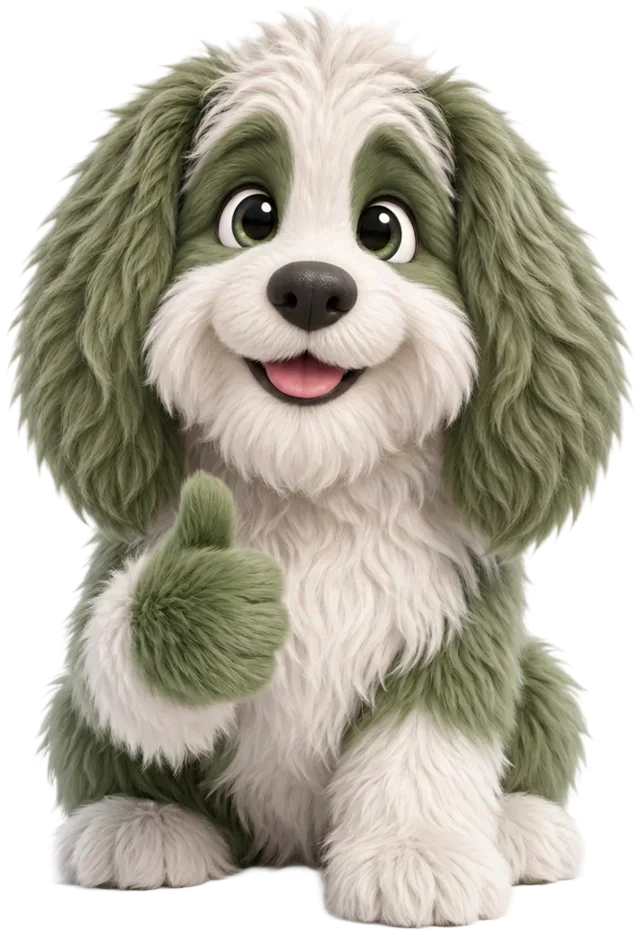
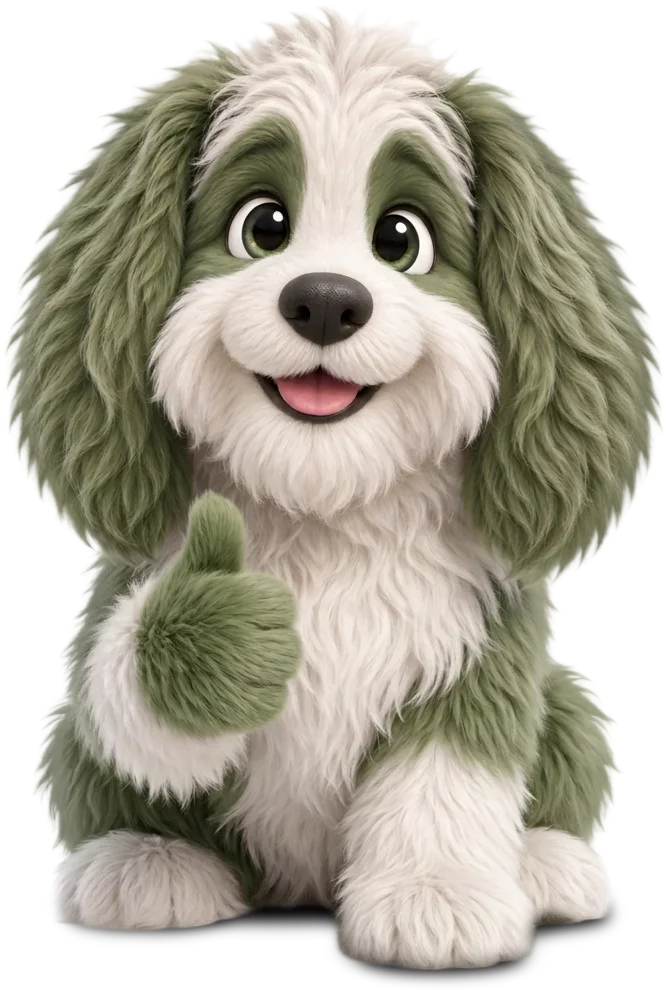
Лендінг: нова версія песика «клас» з тінню, більша

diff --git a/index.html b/index.html
@@ -22,7 +22,7 @@
 <meta property="og:locale" content="uk_UA">
 <link rel="icon" href="/assets/favicon.png">
 <link rel="preload" href="/assets/fonts/Mulish_700Bold.ttf" as="font" type="font/ttf" crossorigin>
-<link rel="stylesheet" href="/assets/landing.css?v=849f6e81">
+<link rel="stylesheet" href="/assets/landing.css?v=9a8fae4e">
 <script>document.documentElement.classList.add('js');try{var th=localStorage.getItem('theme');if(th)document.documentElement.dataset.theme=th}catch(e){}</script>
 <script src="https://cdnjs.cloudflare.com/ajax/libs/gsap/3.12.5/gsap.min.js" defer></script>
 <script src="https://cdnjs.cloudflare.com/ajax/libs/gsap/3.12.5/ScrollTrigger.min.js" defer></script>
@@ -114,7 +114,7 @@
 <footer class="foot"><div class="foot-card">
   <div class="foot-cta">
     <div class="foot-text reveal"><h2>Додайте першого улюбленця</h2><p>Завантажте Chepeti, це займе менше хвилини. Реєстрація не потрібна.</p><div class="cta-row"><a class="btn btn-primary" href="https://play.google.com/store/apps/details?id=com.chepeti.app" rel="noopener"><img class="mono" src="https://cdn.simpleicons.org/googleplay/ffffff" alt="" width="20" height="20">Google Play</a><span class="btn btn-soon" aria-disabled="true"><img src="https://cdn.simpleicons.org/apple/8F8579" alt="" width="20" height="20">App Store <small>скоро</small></span></div></div>
-    <img class="foot-dog" src="/assets/dog/thumbs-up.webp" alt="" width="640" height="935" loading="lazy">
+    <img class="foot-dog" src="/assets/dog/thumbs-up.webp" alt="" width="668" height="990" loading="lazy">
   </div>
   <div class="foot-links">
     <a href="/privacy.html">Конфіденційність</a><a href="/terms.html">Умови використання</a><a href="/delete-account.html">Видалення акаунта</a>

diff --git a/en/index.html b/en/index.html
@@ -22,7 +22,7 @@
 <meta property="og:locale" content="en_US">
 <link rel="icon" href="/assets/favicon.png">
 <link rel="preload" href="/assets/fonts/Mulish_700Bold.ttf" as="font" type="font/ttf" crossorigin>
-<link rel="stylesheet" href="/assets/landing.css?v=849f6e81">
+<link rel="stylesheet" href="/assets/landing.css?v=9a8fae4e">
 <script>document.documentElement.classList.add('js');try{var th=localStorage.getItem('theme');if(th)document.documentElement.dataset.theme=th}catch(e){}</script>
 <script src="https://cdnjs.cloudflare.com/ajax/libs/gsap/3.12.5/gsap.min.js" defer></script>
 <script src="https://cdnjs.cloudflare.com/ajax/libs/gsap/3.12.5/ScrollTrigger.min.js" defer></script>
@@ -114,7 +114,7 @@
 <footer class="foot"><div class="foot-card">
   <div class="foot-cta">
     <div class="foot-text reveal"><h2>Add your first pet</h2><p>Get Chepeti, it takes less than a minute. No sign-up needed.</p><div class="cta-row"><a class="btn btn-primary" href="https://play.google.com/store/apps/details?id=com.chepeti.app" rel="noopener"><img class="mono" src="https://cdn.simpleicons.org/googleplay/ffffff" alt="" width="20" height="20">Google Play</a><span class="btn btn-soon" aria-disabled="true"><img src="https://cdn.simpleicons.org/apple/8F8579" alt="" width="20" height="20">App Store <small>soon</small></span></div></div>
-    <img class="foot-dog" src="/assets/dog/thumbs-up.webp" alt="" width="640" height="935" loading="lazy">
+    <img class="foot-dog" src="/assets/dog/thumbs-up.webp" alt="" width="668" height="990" loading="lazy">
   </div>
   <div class="foot-links">
     <a href="/en/privacy.html">Privacy</a><a href="/en/terms.html">Terms of Use</a><a href="/en/delete-account.html">Delete account</a>

diff --git a/assets/landing.css b/assets/landing.css
@@ -512,3 +512,6 @@ footer .copy { margin-left: auto; }
   .foot { padding-top: 40px; }
   .foot-dog { margin-top: 0; margin-bottom: 16px; }
 }
+/* Песик «клас» більший (власник 14.11): нова версія з тінню */
+.foot-dog { width: clamp(260px, 30vw, 380px); margin-top: calc(-1 * clamp(110px, 11vw, 160px)); }
+@media (max-width: 860px) { .foot-dog { width: min(64vw, 260px); margin-top: 0; } }

diff --git a/tools/build_landing.py b/tools/build_landing.py
@@ -384,7 +384,7 @@ def page(t: dict) -> str:
 <footer class="foot"><div class="foot-card">
   <div class="foot-cta">
     <div class="foot-text reveal"><h2>{t['final_h2']}</h2><p>{t['final_p']}</p><div class="cta-row">{btn_play}{btn_soon}</div></div>
-    <img class="foot-dog" src="{a}dog/thumbs-up.webp" alt="" width="640" height="935" loading="lazy">
+    <img class="foot-dog" src="{a}dog/thumbs-up.webp" alt="" width="668" height="990" loading="lazy">
   </div>
   <div class="foot-links">
     {''.join(f'<a href="{u}">{n}</a>' for n, u in t['foot'])}
